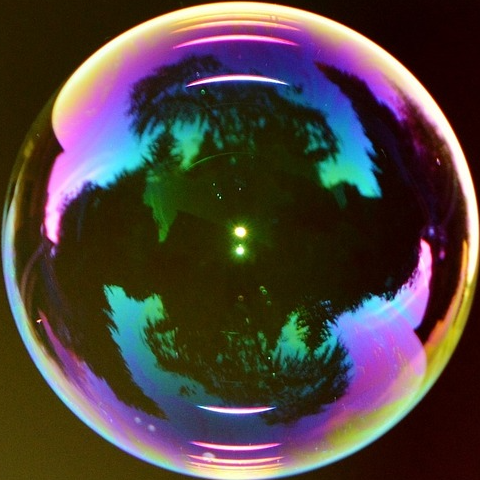
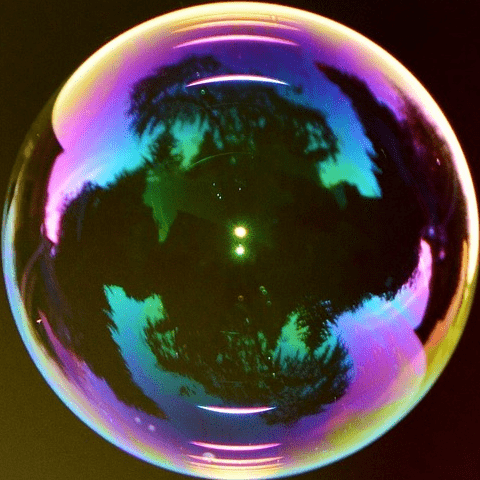
splash done!

diff --git a/App.js b/App.js
@@ -176,7 +176,7 @@ const newitem = {
 
 const bub = [
   require('./my/bubble1.png'),
-  require('./my/bubble2.png'),
+  require('./my/bubble2.jpg'),
   require('./my/bubble3.jpg'),
   require('./my/bubble4.jpg'),
   require('./my/extra1.png'),
@@ -195,6 +195,7 @@ import Icon from 'react-native-vector-icons/Feather';
 import ImagePicker from 'react-native-image-crop-picker';
 import RNFS from 'react-native-fs'
 import KeepAwake from 'react-native-keep-awake'
+import SplashScreen from "react-native-splash-screen"
 
 UIManager.setLayoutAnimationEnabledExperimental(true);
 const path = RNFS.DocumentDirectoryPath + '/data.txt';
@@ -721,7 +722,7 @@ class Menu extends Component{
       </View>
     )
     let itemProp = (
-      <ScrollView style={[s.submenu,{width:'64%'}]}>
+      <ScrollView style={[s.submenu,{width:'64%'},this.props.show?null:{padding:0}]}>
         <Text style={s.center}>Properties</Text>
           <SeparatorH />
           <Space height={16} />
@@ -731,6 +732,7 @@ class Menu extends Component{
           
           <View style={s.row}>
             <Text style={s.prop}>Shape</Text>
+            {!this.props.show?null:
             <Picker
               selectedValue={this.props.bag[now].shape}
               style={{height:'100%', width:'51%'}}
@@ -740,7 +742,7 @@ class Menu extends Component{
             >
               <Picker.Item label="Circle" value="circle" />
               <Picker.Item label="Square" value="square" />
-            </Picker>
+            </Picker>}
           </View>
           <Space />
           <View style={s.row}>
@@ -921,12 +923,13 @@ class Menu extends Component{
       </ScrollView>
     )
     return (
-        <View style={this.props.show?s.menu:{width:0,height:0}}>
+        <View style={[s.menu,this.props.show?{}:{height:0,borderWidth:0}]}>
+          {!this.props.show?null:
           <Touchop onPress={()=>{this.la();this.setState({menu:true})}} style={s.butmenu2}>
             <Icon name="settings" size={30} color="darkgreen" />
-          </Touchop>
+          </Touchop>}
 
-          <ScrollView style={[s.submenu,{width:'36%'}]}>
+          <ScrollView style={[s.submenu,{width:'36%'},this.props.show?null:{padding:0}]}>
             <Text style={s.center}>Items</Text>
             <SeparatorH />
             <Space height={20} />
@@ -936,7 +939,7 @@ class Menu extends Component{
           <SeparatorV />
           {itemProp}
 
-          {!this.state.menu?null: 
+          {!this.state.menu || !this.props.show?null: 
           <View style={{position:'absolute',left: 0, right: 0,top:40,justifyContent: 'center', alignItems: 'center'}}>
             <View style={s.model}>
                 <Mybut style={s.cross} onPress={()=>this.setState({menu:false})}>
@@ -954,7 +957,7 @@ class Menu extends Component{
             </View>
           </View>}
 
-          {!this.state.adding?null: 
+          {!this.state.adding || !this.props.show?null: 
           <View style={{position:'absolute',left: 0, right: 0,top:40,justifyContent: 'center', alignItems: 'center'}}>
             <View style={[s.model,{width:240}]}>
                 <Mybut style={s.cross} onPress={()=>this.setState({adding:false})}>
@@ -993,6 +996,9 @@ class App extends Component{
     KeepAwake.activate()
 
     readlog().then(v=>{this.setState({obj:v,menu:false})}) //calling promise in construtor!!!!
+  }
+  componentDidMount(){
+    SplashScreen.hide()
   }
 
   backPress(){
@@ -1093,7 +1099,7 @@ const s = StyleSheet.create({
     top:'6%',
     left:'2%',
     width:'96%',
-    height:'92%',
+    height:'93%',
     padding:0,
     margin:0,
     backgroundColor:'#beef',

diff --git a/android/app/src/main/java/com/napp/MainActivity.java b/android/app/src/main/java/com/napp/MainActivity.java
@@ -5,9 +5,15 @@ import com.facebook.react.ReactActivity;
 import com.facebook.react.ReactActivityDelegate;
 import com.facebook.react.ReactRootView;
 import com.swmansion.gesturehandler.react.RNGestureHandlerEnabledRootView;
+import org.devio.rn.splashscreen.SplashScreen;
+import android.os.Bundle;
 
 public class MainActivity extends ReactActivity {
-
+  @Override
+    protected void onCreate(Bundle savedInstanceState) {
+        SplashScreen.show(this);
+        super.onCreate(savedInstanceState);
+    }
   /**
    * Returns the name of the main component registered from JavaScript. This is used to schedule
    * rendering of the component.
